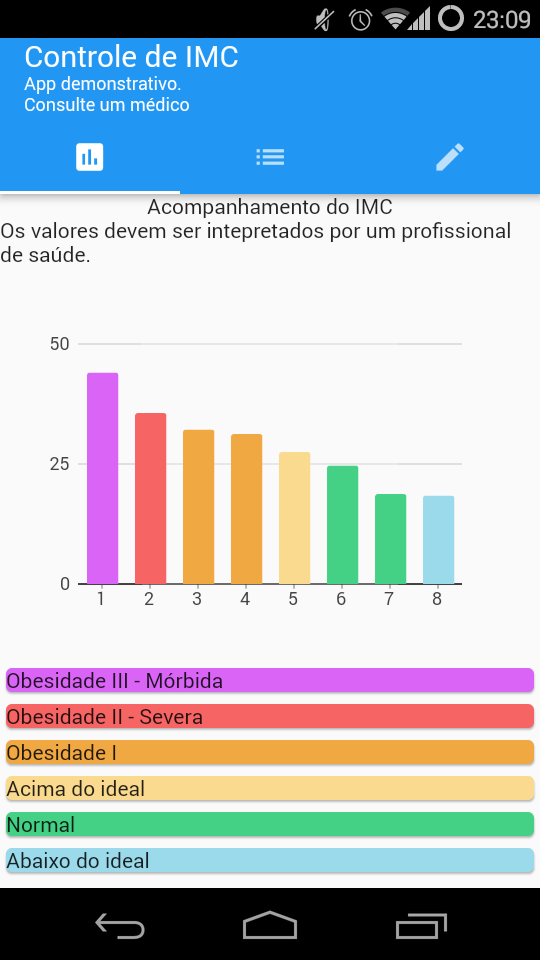
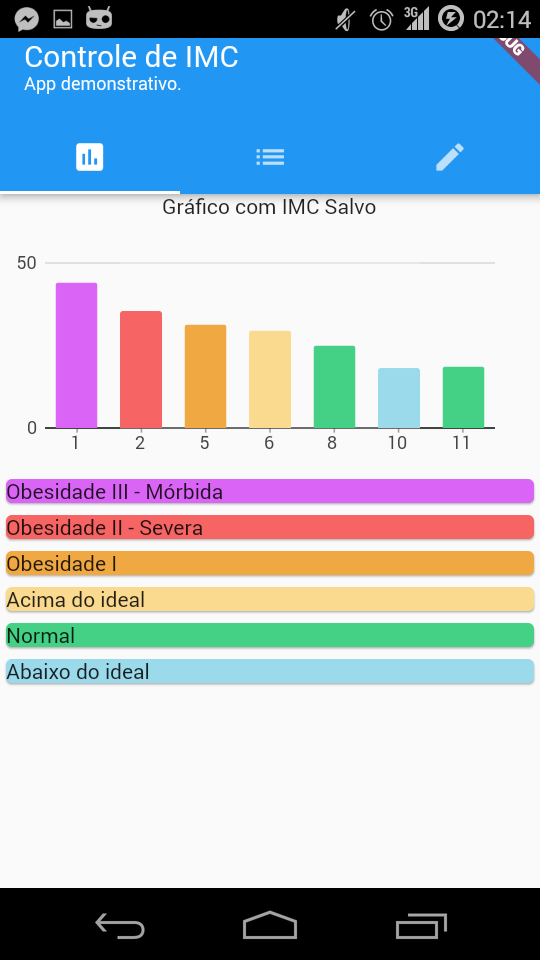
User interface improvements. Bug fixes. Code improvement.

diff --git a/lib/imc.dart b/lib/imc.dart
@@ -2,6 +2,7 @@ import 'package:flutter/material.dart';
 import 'package:flutter/services.dart';
 import 'Database.dart';
 import 'DataModel.dart';
+import 'common.dart';
 
 class FormularioIMC extends StatefulWidget {
   @override
@@ -11,7 +12,7 @@ class FormularioIMC extends StatefulWidget {
 class _FormularioIMCState extends State<FormularioIMC> {
   //Identifica cada formulário
   final _formKey = GlobalKey<FormState>();
-  String _resultado = '';
+  String _resultado = '0';
 
   //controladores pros campos de texto do formulário
   TextEditingController alturaController = TextEditingController();
@@ -47,7 +48,7 @@ class _FormularioIMCState extends State<FormularioIMC> {
     pesoController.text = '';
     FocusScope.of(context).requestFocus(nodeOne);
     setState(() {
-      _resultado = '';
+      _resultado = '0';
     });
   }
 
@@ -69,56 +70,71 @@ class _FormularioIMCState extends State<FormularioIMC> {
       key: _formKey,
       child: ListView(
         children: <Widget>[
-          TextFormField(
-            autofocus: true,
-            focusNode: nodeOne,
-            keyboardType:
-                TextInputType.numberWithOptions(signed: false, decimal: true),
-            decoration: new InputDecoration(
-              hintText: 'Peso em kg',
-              labelText: 'Peso',
-            ),
-            validator: (value) {
-              if (value.isEmpty) {
-                return 'Por favor, digite algo.';
-              }
-              if (!isNumber(value)) {
-                pesoController.text = '';
-                return 'Valor inválido!';
-              }
-            },
-            controller: pesoController,
-            onFieldSubmitted: (value) {
-              FocusScope.of(context).requestFocus(nodeTwo);
-            },
-            textInputAction: TextInputAction.next,
+          Row(
+            mainAxisAlignment: MainAxisAlignment.spaceEvenly,
+            children: <Widget>[
+              Column(
+                children: <Widget>[
+                  SizedBox(
+                    width: 130.0,
+                    child: TextFormField(
+                      autofocus: true,
+                      focusNode: nodeOne,
+                      keyboardType: TextInputType.numberWithOptions(
+                          signed: false, decimal: true),
+                      decoration: new InputDecoration(
+                        hintText: 'Massa em kg',
+                        labelText: 'Massa',
+                      ),
+                      validator: (value) {
+                        if (value.isEmpty) {
+                          return 'Por favor, digite algo.';
+                        }
+                        if (!isNumber(value)) {
+                          pesoController.text = '';
+                          return 'Valor inválido!';
+                        }
+                      },
+                      controller: pesoController,
+                      onFieldSubmitted: (value) {
+                        FocusScope.of(context).requestFocus(nodeTwo);
+                      },
+                      textInputAction: TextInputAction.next,
+                    ),
+                  ),
+                  SizedBox(
+                    width: 130.0,
+                    child: TextFormField(
+                      focusNode: nodeTwo,
+                      keyboardType: TextInputType.numberWithOptions(
+                          signed: false, decimal: false),
+                      decoration: new InputDecoration(
+                        hintText: 'Altura em cm',
+                        labelText: 'Altura',
+                      ),
+                      validator: (value) {
+                        if (value.isEmpty) {
+                          return 'Por favor, digite algo.';
+                        }
+                        if (!isNumber(value)) {
+                          return 'Valor inválido!';
+                        }
+                      },
+                      controller: alturaController,
+                      textInputAction: TextInputAction.done,
+                      onFieldSubmitted: (value) {
+                        _calcular();
+                      },
+                    ),
+                  ),
+                ],
+              ),
+              SizedBox(
+                  width: 130,
+                  child: ResultadoIMC(imc: double.parse(_resultado))),
+            ],
           ),
           SizedBox(width: 10, height: 10),
-          TextFormField(
-            focusNode: nodeTwo,
-            keyboardType:
-                TextInputType.numberWithOptions(signed: false, decimal: false),
-            decoration: new InputDecoration(
-              hintText: 'Altura em cm',
-              labelText: 'Altura',
-            ),
-            validator: (value) {
-              if (value.isEmpty) {
-                return 'Por favor, digite algo.';
-              }
-              if (!isNumber(value)) {
-                return 'Valor inválido!';
-              }
-            },
-            controller: alturaController,
-            textInputAction: TextInputAction.done,
-            onFieldSubmitted: (value) {
-              _calcular();
-            },
-          ),
-          SizedBox(width: 10, height: 10),
-          Text('Resultado: ' + _resultado),
-          SizedBox(width: 10, height: 30),
           Row(
             mainAxisAlignment: MainAxisAlignment.spaceAround,
             children: <Widget>[

diff --git a/lib/graficoIMC.dart b/lib/graficoIMC.dart
@@ -4,6 +4,7 @@ import 'package:flutter/material.dart';
 import 'package:charts_flutter/flutter.dart' as charts;
 import 'Database.dart';
 import 'DataModel.dart';
+import 'common.dart';
 
 class GraficoIMC extends StatefulWidget {
   @override
@@ -19,31 +20,6 @@ class MassaPorMedida {
   MassaPorMedida(this.id, this.massa, Color color, this.imc)
       : this.color = new charts.Color(
             r: color.red, g: color.green, b: color.blue, a: color.alpha);
-}
-
-int escolherCor(String imc) {
-  var temp = double.parse(imc);
-
-  if (temp >= 40.0)
-    return 0xFFda64f6;
-  else {
-    if (temp >= 35.0 && temp < 40.0)
-      return 0xFFf66464;
-    else {
-      if (temp >= 30.0 && temp < 35.0)
-        return 0xFFf0a842;
-      else {
-        if (temp >= 25.0 && temp < 30.0)
-          return 0xFFfada8f;
-        else {
-          if (temp >= 18.5 && temp < 25.0)
-            return 0xFF44d185;
-          else
-            return 0xFF9bdaeb;
-        }
-      }
-    }
-  }
 }
 
 class _GraficoIMCState extends State<GraficoIMC> {
@@ -65,13 +41,17 @@ class _GraficoIMCState extends State<GraficoIMC> {
                   data[0] = MassaPorMedida(
                       snapshot.data[i].id.toString(),
                       int.parse(snapshot.data[i].clientWeight),
-                      Color(escolherCor(snapshot.data[i].clientImc)),
+                      Color(seletorDeCores(
+                          double.parse(snapshot.data[i].clientImc))),
                       double.parse(snapshot.data[i].clientImc));
                 } else {
                   data.add(new MassaPorMedida(
                       snapshot.data[i].id.toString(),
-                      int.parse(snapshot.data[i].clientWeight),
-                      Color(escolherCor(snapshot.data[i].clientImc)),
+                      int.parse(double.parse(snapshot.data[i].clientWeight)
+                          .ceil()
+                          .toString()),
+                      Color(seletorDeCores(
+                          double.parse(snapshot.data[i].clientImc))),
                       double.parse(snapshot.data[i].clientImc)));
                 }
               }
@@ -90,17 +70,16 @@ class _GraficoIMCState extends State<GraficoIMC> {
                 animate: true,
               );
               var chartWidget = new Padding(
-                padding: new EdgeInsets.all(32.0),
+                padding: new EdgeInsets.all(10.0),
                 child: new SizedBox(
-                  height: 200.0,
+                  height: 150.0,
                   child: chart,
                 ),
               );
 
               return Column(
                 children: <Widget>[
-                  Text('Acompanhamento do IMC'),
-                  Text('Os valores devem ser intepretados por um profissional de saúde.'),
+                  Text('Gráfico com IMC Salvo'),
                   chartWidget,
                 ],
               );

diff --git a/lib/listagemIMC.dart b/lib/listagemIMC.dart
@@ -1,13 +1,12 @@
 import 'package:flutter/material.dart';
 import 'Database.dart';
 import 'DataModel.dart';
+import 'common.dart';
 
 class ListagemIMC extends StatefulWidget {
   @override
   _ListagemIMCState createState() => _ListagemIMCState();
 }
-
-var _corFundo = 0x88FF0000;
 
 class _ListagemIMCState extends State<ListagemIMC> {
   @override
@@ -21,31 +20,9 @@ class _ListagemIMCState extends State<ListagemIMC> {
             itemCount: snapshot.data.length,
             itemBuilder: (BuildContext context, int index) {
               ImcMeasurement item = snapshot.data[index];
-              var temp = double.parse(item.clientImc);
-
-              if (temp >= 40.0)
-                _corFundo = 0xFFda64f6;
-              else {
-                if (temp >= 35.0 && temp < 40.0)
-                  _corFundo = 0xFFf66464;
-                else {
-                  if (temp >= 30.0 && temp < 35.0)
-                    _corFundo = 0xFFf0a842;
-                  else {
-                    if (temp >= 25.0 && temp < 30.0)
-                      _corFundo = 0xFFfada8f;
-                    else {
-                      if (temp >= 18.5 && temp < 25.0)
-                        _corFundo = 0xFF44d185;
-                      else
-                        _corFundo = 0xFF9bdaeb;
-                    }
-                  }
-                }
-              }
 
               return Card(
-                color: Color(_corFundo),
+                color: Color(seletorDeCores(double.parse(item.clientImc))),
                 child: ListTile(
                   title: Text(item.clientWeight.toString() + ' kg'),
                   leading: Text('IMC\n' + item.clientImc.toString()),
@@ -55,12 +32,10 @@ class _ListagemIMCState extends State<ListagemIMC> {
                         showDialog(
                           context: context,
                           builder: (BuildContext context) {
-                            // return object of type Dialog
                             return AlertDialog(
                               title: new Text("Deletar Item"),
                               content: new Text("Apagar Permanentemente?"),
                               actions: <Widget>[
-                                // usually buttons at the bottom of the dialog
                                 new FlatButton(
                                     onPressed: () async {
                                       await DBProvider.db
@@ -69,7 +44,6 @@ class _ListagemIMCState extends State<ListagemIMC> {
                                       Navigator.of(context).pop();
                                     },
                                     child: Text('Apagar')),
-
                                 new FlatButton(
                                   child: new Text("Cancelar"),
                                   onPressed: () {

diff --git a/lib/common.dart b/lib/common.dart
@@ -1,8 +1,77 @@
-// Colors:
-//Obesidade Morbida Grau 3: 0xFFda64f6
-//Obesidade Severa Grau 2: 0xFFf66464
-//Obesidade Grau I: 0xFFf0a842
-//Sobrepeso: 0xFFfada8f
-//Saudável: 0xFF44d185
-//Magreza: 0xFF9bdaeb
+import 'package:flutter/material.dart';
 
+int seletorDeCores(double valor) {
+  if(valor == 0.0)
+    return 0xFFFFFFFF;
+  if (valor >= 40.0)
+    return 0xFFda64f6; //Obesidade Morbida Grau 3
+  else {
+    if (valor >= 35.0 && valor < 40.0)
+      return 0xFFf66464; //Obesidade Severa Grau 2
+    else {
+      if (valor >= 30.0 && valor < 35.0)
+        return 0xFFf0a842; //Obesidade Grau I
+      else {
+        if (valor >= 25.0 && valor < 30.0)
+          return 0xFFfada8f; //Sobrepeso
+        else {
+          if (valor >= 18.5 && valor < 25.0)
+            return 0xFF44d185; //Saudável
+          else
+            return 0xFF9bdaeb; //Magreza
+        }
+      }
+    }
+  }
+}
+
+Widget categoriaIMC(double valor) {
+  if(valor == 0.0)
+    return Text('');
+  if (valor >= 40.0)
+    return Text('Obesidade Mórbida Grau 3');
+  else {
+    if (valor >= 35.0 && valor < 40.0)
+      return Text('Obesidade Severa Grau 2');
+    else {
+      if (valor >= 30.0 && valor < 35.0)
+        return Text('Obesidade Grau 1');
+      else {
+        if (valor >= 25.0 && valor < 30.0)
+          return Text('Sobrepeso');
+        else {
+          if (valor >= 18.5 && valor < 25.0)
+            return Text('Saudável');
+          else
+            return Text('Magreza');
+        }
+      }
+    }
+  }
+}
+
+class ResultadoIMC extends StatelessWidget {
+  ResultadoIMC({this.imc});
+
+  double imc;
+
+  @override
+  Widget build(BuildContext context) {
+    return Column(
+      mainAxisAlignment: MainAxisAlignment.spaceBetween,
+      crossAxisAlignment: CrossAxisAlignment.center,
+      children: <Widget>[
+        Text('Resultado: '),
+        Text(
+          imc.toString(),
+          style: TextStyle(
+              fontSize: 45.0,
+              color: Colors.black,
+              backgroundColor:
+                  Color(seletorDeCores(double.parse(imc.toString())))),
+        ),
+        categoriaIMC(imc),
+      ],
+    );
+  }
+}

diff --git a/lib/main.dart b/lib/main.dart
@@ -25,9 +25,7 @@ class MyApp extends StatelessWidget {
             title: ListView(
               children: <Widget>[
                 Text('Controle de IMC'),
-                Text(
-                  'App demonstrativo.\nConsulte um médico',
-                  maxLines: 2,
+                Text('App demonstrativo.',
                   textScaleFactor: 0.6,
                 ),
               ],
